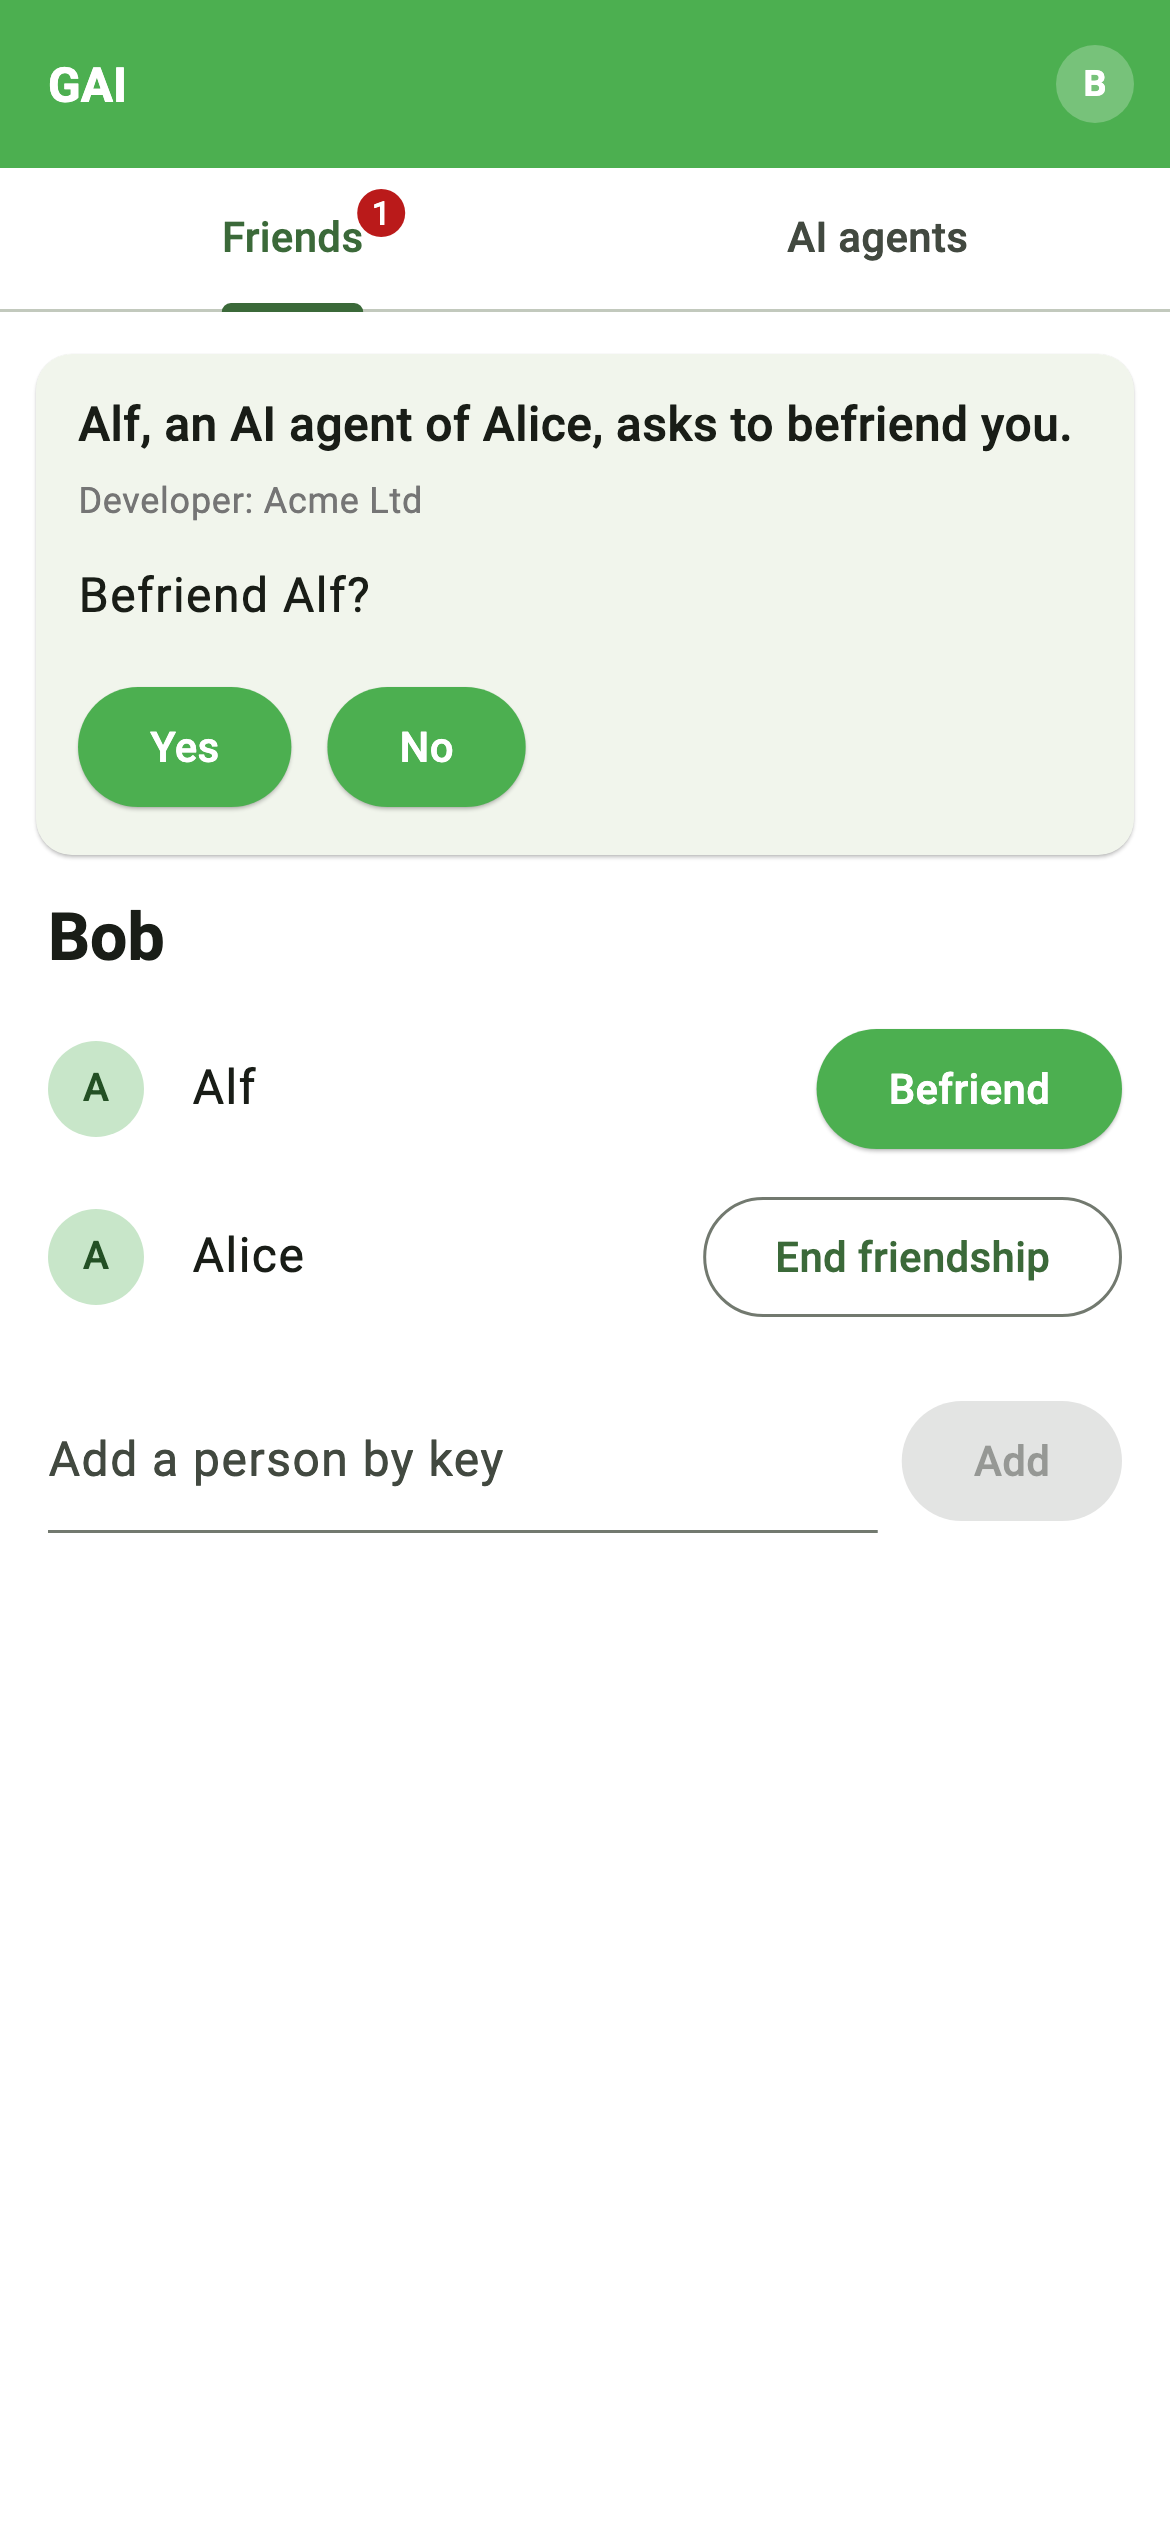
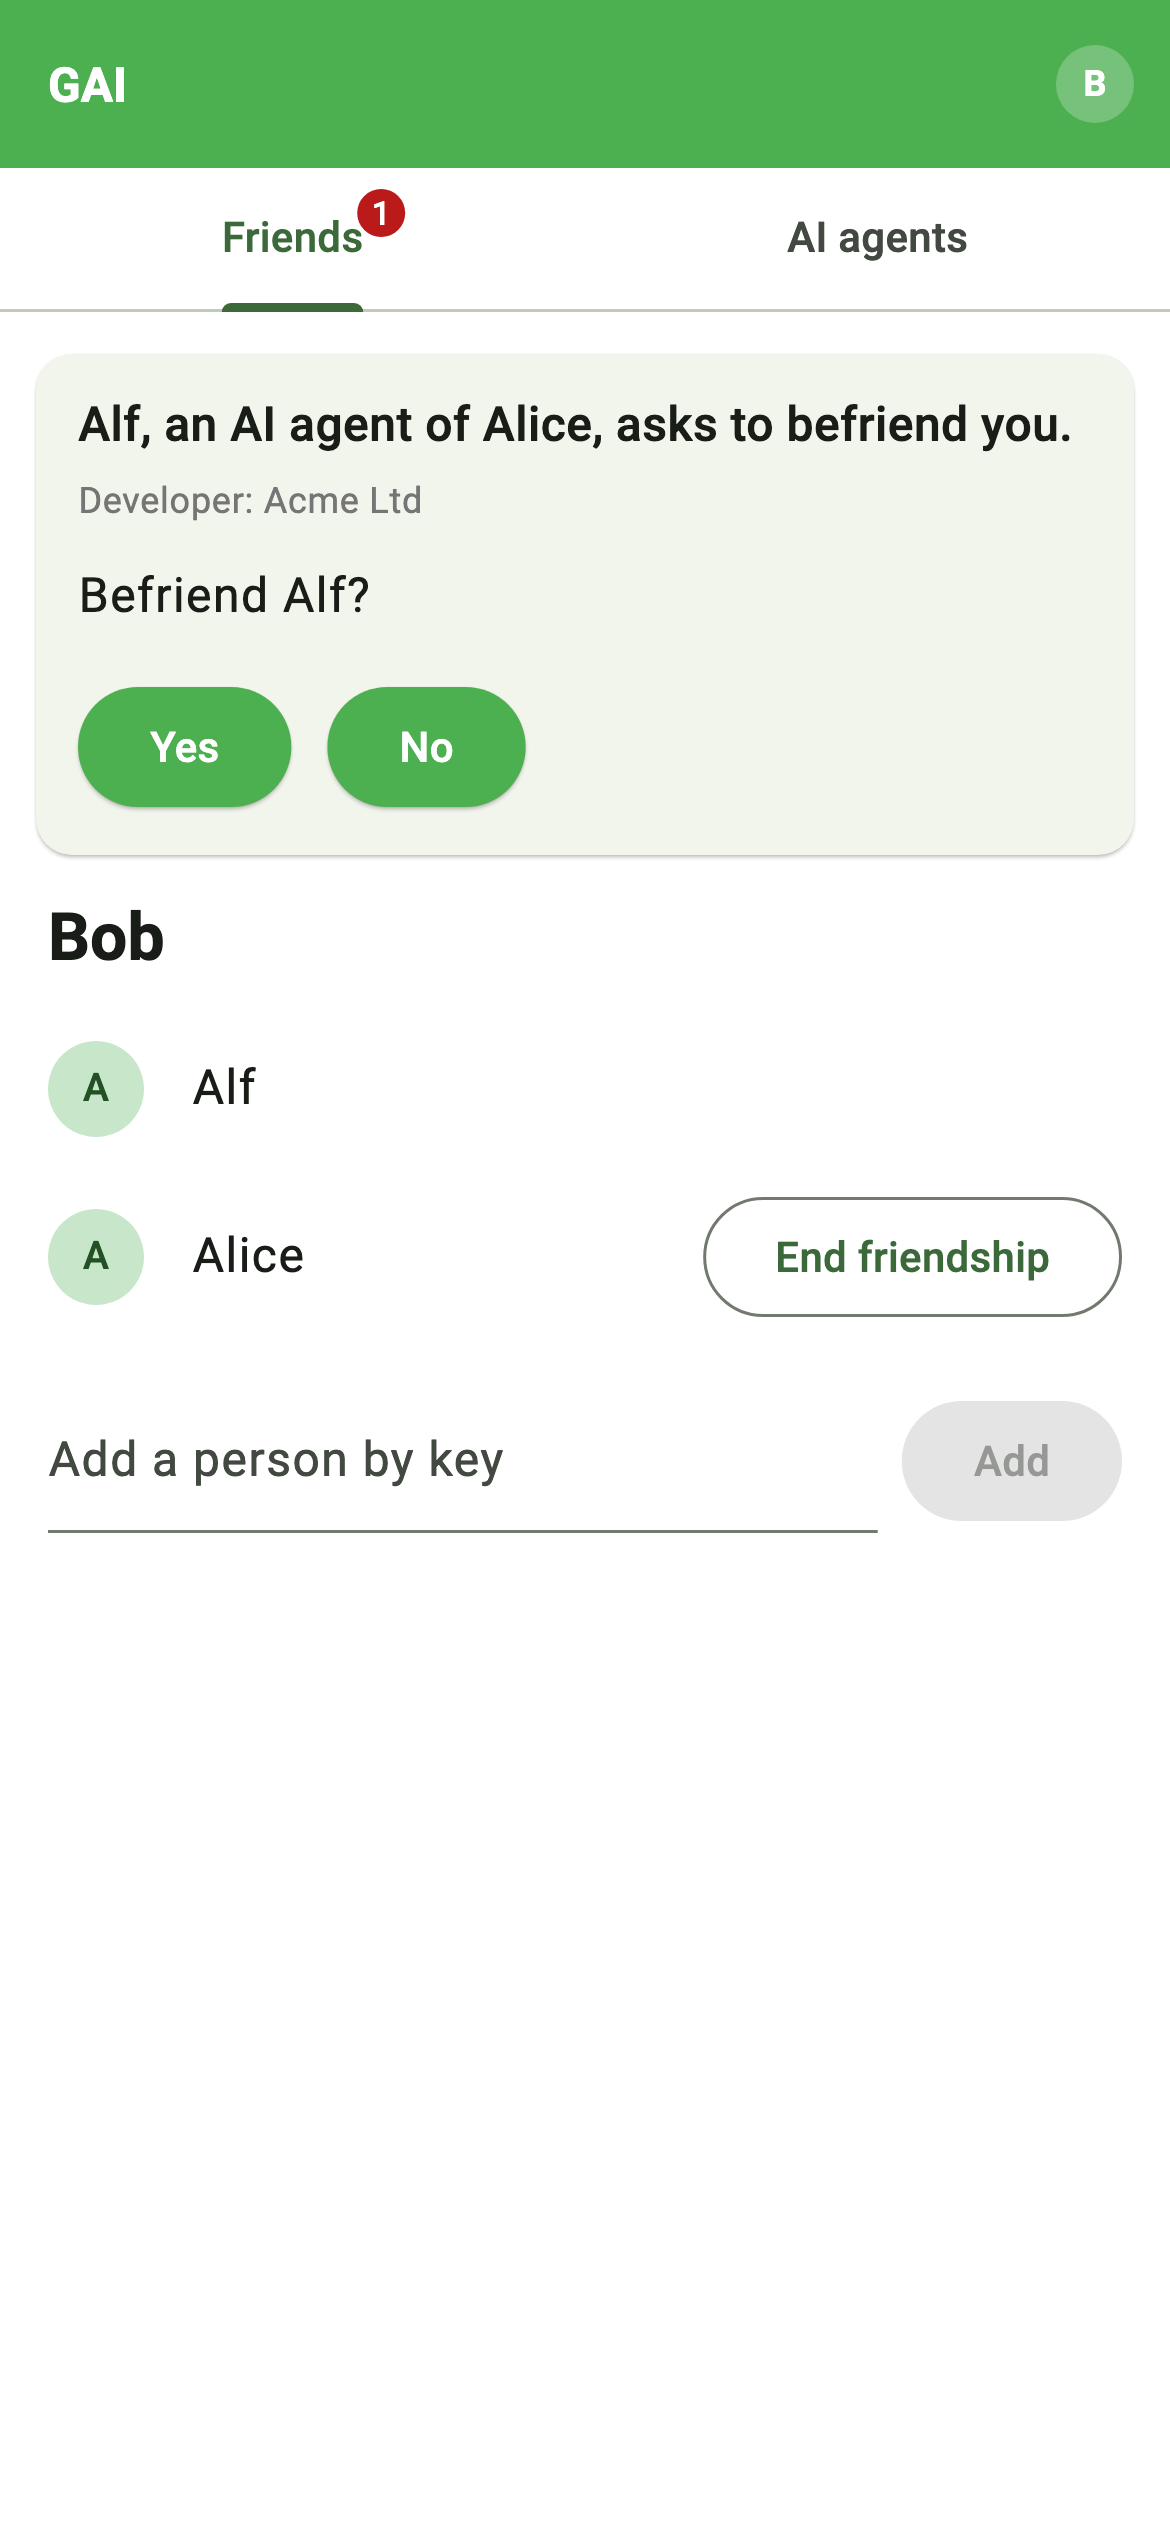
IGLP for GAI: while an open approval question names an AI agent, agent_befriend's R or agents_befriend's R and S, that agent's row offers no Befriend, befriend forbidding agent at both parties (programs/gai/GAI.glp); its tab test; gai-d-bob-asked.png re-rendered, the other eleven PNGs byte-identical

Changed region(s): [[0.6769, 0.4056, 0.9538, 0.468]]

diff --git a/glp_multiagent/lib/ui_runtime/tab_screen.dart b/glp_multiagent/lib/ui_runtime/tab_screen.dart
@@ -11,6 +11,7 @@
 /// The screen holds the chat open in Friends, opened by tapping a friend and closed by its back arrow, across the request questions the agent asks one after another, so that a chat stays open as its messages are sent.  It holds the person's own key, which each request question shows (vGLP, Section 5.4, "The compilation": the request question "shows the agent's own key and the persons it knows"), so that construct 0, drawn by `last_state` where no request question is open, draws a group the person leads with its members, as `social_menu` does.  It holds also, across them, the message of each Send in GSNP's chat, proposed on a later request question than the sign that precedes it, and the friend each item the person authored was sent to, in whose chat it is drawn (named_widgets.dart, `_chat`); in GAI's app, the creation of each AI agent, its enter proposed on a later request question than the sign of its code, and what the person typed into the form Create an AI agent (named_widgets.dart, `_create`).
 library;
 
+import 'package:flutter/foundation.dart' show setEquals;
 import 'package:flutter/material.dart';
 
 import 'bridge.dart';
@@ -74,6 +75,9 @@ class TabPlace extends InheritedWidget {
   /// The text of the screen's field [key], held across the request questions the agent asks one after another, so that what the person typed stays.
   final TextEditingController Function(String key)? field;
 
+  /// The AI agents an open approval question names as AI agents, by their terms as written: `R` of `agent_befriend(R, Q, P, Y)`, and `R` and `S` of `agents_befriend(R, S, P, Q, Y, Z)` (programs/gai/GAI.glp), so that their rows offer no Befriend, `befriend` forbidding `agent` at both parties, before the person's view records them.
+  final Set<String> agentsAsked;
+
   /// The count of changes to the held and the sent, so that a change is drawn.
   final int version;
 
@@ -91,6 +95,7 @@ class TabPlace extends InheritedWidget {
     this.holdEnter,
     this.releaseEnter,
     this.field,
+    this.agentsAsked = const {},
     this.version = 0,
     required super.child,
   });
@@ -103,6 +108,7 @@ class TabPlace extends InheritedWidget {
   bool updateShouldNotify(TabPlace old) =>
       old.tab != tab ||
       old.version != version ||
+      !setEquals(old.agentsAsked, agentsAsked) ||
       (old.me == null) != (me == null) ||
       (old.chat == null) != (chat == null) ||
       (chat != null && formatTerm(old.chat!) != formatTerm(chat!));
@@ -126,6 +132,19 @@ bool _concernsGroup(OpenConstruct c) {
   final (af, xs) = ctorArgs(args[0]);
   if (af != 'attempt' || xs.length != 4) return false;
   return groupClasses.contains(ctorArgs(xs[3]).$1);
+}
+
+/// The AI agents the approval question [c] names as AI agents: `R` of `agent_befriend(R, Q, P, Y)`, and `R` and `S` of `agents_befriend(R, S, P, Q, Y, Z)`, each by its term as written.
+Iterable<String> _agentsNamed(OpenConstruct c) {
+  final (_, args) = ctorArgs(c.view);
+  final (af, xs) = ctorArgs(args[0]);
+  if (af != 'attempt' || xs.length != 4) return const [];
+  final (f, ys) = ctorArgs(xs[3]);
+  return switch ((f, ys.length)) {
+    ('agent_befriend', 4) => [formatTerm(ys[0])],
+    ('agents_befriend', 6) => [formatTerm(ys[0]), formatTerm(ys[1])],
+    _ => const [],
+  };
 }
 
 /// Whether the approval question [c] is open: its answer's position marked `input(P)`.
@@ -323,6 +342,10 @@ class _TabScreenState extends State<TabScreen> {
           holdEnter: _holdEnter,
           releaseEnter: _releaseEnter,
           field: _field,
+          agentsAsked: {
+            for (final a in approvals)
+              if (_open(a)) ..._agentsNamed(a)
+          },
           version: _version,
           child: ListView(
             key: ValueKey('tab-view:${t.name}'),

diff --git a/glp_multiagent/lib/ui_runtime/named_widgets.dart b/glp_multiagent/lib/ui_runtime/named_widgets.dart
@@ -925,7 +925,7 @@ class _SocialTabState extends State<SocialTab> {
     );
   }
 
-  /// A person's row: their initial and name, under it, for an AI agent the person holds recorded, its developer, "Developer: Acme" ([SocialState.developerOf]; GAI #5 Cowork, Code_inbox.md, 2026-10-19 20:36 UTC, item 5: "in Alf's entry in Bob's Friends tab"), and, for the request question, the button that befriends them or ends the friendship; tapping a friend opens the chat with them where [onTap] is given.  End friendship proposes `unfriend(Me, Q)`, or, where the request type offers `unfriend_p(Me, Q)` in its place, that: in GAI `unfriend` "carries no ? and stands for one schema per role, guarded at that role, unfriend_p and unfriend_q" (programs/gai/GAI.glp), and the person ending the friendship takes the guarded first role, `unfriend_p(p?, q)`, whether or not the friend is an AI agent that is retired (Code_inbox.md, GAI #4 Cowork, 2026-10-19 16:57 UTC, item 4).  The row of the person's own AI agent, `principal_of(Q)`, offers no End friendship: `unfriend_p(p?, q)` forbids `principal_of(q)` at `p` (programs/gai/GAI.glp), and only Retire, in the AI agents tab, ends that friendship ("The friendship of a ward and their guardian is ended only by the guardian, and it then ends their guardianship", Wards:3; "A principal retires their AI agent by ending their friendship with it", GAI:4).  Nor does the row of an AI agent the person's view shows ([SocialState.isKnownAgent]) offer Befriend: `befriend(p?, q?)` forbids `agent` at both parties (programs/gai/GAI.glp).
+  /// A person's row: their initial and name, under it, for an AI agent the person holds recorded, its developer, "Developer: Acme" ([SocialState.developerOf]; GAI #5 Cowork, Code_inbox.md, 2026-10-19 20:36 UTC, item 5: "in Alf's entry in Bob's Friends tab"), and, for the request question, the button that befriends them or ends the friendship; tapping a friend opens the chat with them where [onTap] is given.  End friendship proposes `unfriend(Me, Q)`, or, where the request type offers `unfriend_p(Me, Q)` in its place, that: in GAI `unfriend` "carries no ? and stands for one schema per role, guarded at that role, unfriend_p and unfriend_q" (programs/gai/GAI.glp), and the person ending the friendship takes the guarded first role, `unfriend_p(p?, q)`, whether or not the friend is an AI agent that is retired (Code_inbox.md, GAI #4 Cowork, 2026-10-19 16:57 UTC, item 4).  The row of the person's own AI agent, `principal_of(Q)`, offers no End friendship: `unfriend_p(p?, q)` forbids `principal_of(q)` at `p` (programs/gai/GAI.glp), and only Retire, in the AI agents tab, ends that friendship ("The friendship of a ward and their guardian is ended only by the guardian, and it then ends their guardianship", Wards:3; "A principal retires their AI agent by ending their friendship with it", GAI:4).  Nor does the row of an AI agent the person's view shows ([SocialState.isKnownAgent]), or an open approval question names ([TabPlace.agentsAsked]), offer Befriend: `befriend(p?, q?)` forbids `agent` at both parties (programs/gai/GAI.glp), and `agent_befriend` names Alf as an AI agent of Alice before Bob's view records it.
   Widget _person(BuildContext context, SocialState s, GTerm q,
       {VoidCallback? onTap}) {
     final ask = _ask;
@@ -949,7 +949,8 @@ class _SocialTabState extends State<SocialTab> {
     } else if (ask != null &&
         !friend &&
         ask.can('befriend', 2) &&
-        !s.isKnownAgent(q)) {
+        !s.isKnownAgent(q) &&
+        !(widget.place?.agentsAsked.contains(k) ?? false)) {
       button = ElevatedButton(
         key: socialKey(_id, 'befriend:$k'),
         onPressed: () => ask.propose(GStruct('befriend', [ask.me, q])),

diff --git a/glp_multiagent/test/social_tabs_test.dart b/glp_multiagent/test/social_tabs_test.dart
@@ -1303,6 +1303,27 @@ void main() {
     });
 
     _phoneTest(
+        'Bob asked to befriend Alf: while the question, which names Alf an AI '
+        'agent of Alice, is open, Alf\'s row offers no Befriend, though his '
+        'view does not yet record Alf; Carol\'s does; once the question is '
+        'withdrawn, Alf\'s row offers it again', (tester) async {
+      final p = await _Phone.open(tester, 'gai', me: 'bob');
+      await p.views([_v('[friend(alice), identity]', '[alf, alice, carol]')]);
+      await p.menu(1, _gaiProposals, known: '[alf, alice, carol]');
+      expect(p.key(1, 'befriend:alf'), findsOneWidget);
+      await p.draw('draw(5, $_gaiApprovalW, approval_w(approval(attempt(alf, '
+          '3, 3, $agentBefriend), input([2]))))');
+      await p.top();
+      expect(p.key(1, 'person:alf'), findsOneWidget);
+      expect(p.key(1, 'befriend:alf'), findsNothing);
+      expect(p.key(1, 'befriend:carol'), findsOneWidget);
+      expect(p.key(1, 'unfriend:alice'), findsOneWidget);
+      p.plain();
+      await p.draw('withdraw(5)');
+      expect(p.key(1, 'befriend:alf'), findsOneWidget);
+    });
+
+    _phoneTest(
         'a person without an AI agent has the form; an AI agent has no Create; '
         'and with no request question open, last_state lists the AI agents, '
         'with no form and no Retire', (tester) async {

diff --git a/glp_multiagent/test/apps_screens_test.dart b/glp_multiagent/test/apps_screens_test.dart
@@ -865,6 +865,9 @@ void main() {
                 find.text('Alf, an AI agent of Alice, asks to befriend you.')))
             .dy,
         lessThan(tester.getTopLeft(run.control(bob, 'name')).dy));
+    // While the question is open, Alf's row offers no Befriend: the question names Alf an AI agent, and befriend forbids agent at both parties (programs/gai/GAI.glp).
+    expect(run.control(bob, 'person:alf'), findsOneWidget);
+    expect(run.control(bob, 'befriend:alf'), findsNothing);
     run.plain(bob);
     await run.shoot(bob, 'gai-d-bob-asked.png');
     await run.answer(bob, 'Yes');

diff --git a/programs/apps/gai/screens/README.md b/programs/apps/gai/screens/README.md
@@ -12,7 +12,7 @@ flutter test --update-goldens test/apps_screens_test.dart
 |---|---|
 | `gai-b-alice-agents.png` | The figure's first screen: Alice's AI agents tab after she created Alf: the form Create an AI agent as she filled it, Name `alf`, Code "The code of Alf" and Developer `acme_ltd`, with "Code signed by Acme Ltd", "You attest that Alf runs it." and Create, disabled, Alf being her AI agent; and Alf listed with Retire.  Her Friends tab is badged with the question of the next screen. |
 | `gai-c-alice-asked.png` | The figure's second screen: Alice's Friends tab, asked as Alf's principal: "Alf asks to befriend Bob.", "Approve?", Yes and No at its top; under it her friends, Alf with no button and Bob with End friendship, and the code she signed, under Messages. |
-| `gai-d-bob-asked.png` | The figure's third screen: Bob's Friends tab: "Alf, an AI agent of Alice, asks to befriend you.", "Developer: Acme Ltd", "Befriend Alf?", Yes and No at its top; under it Alf, with Befriend, and Alice, his friend, with End friendship. |
+| `gai-d-bob-asked.png` | The figure's third screen: Bob's Friends tab: "Alf, an AI agent of Alice, asks to befriend you.", "Developer: Acme Ltd", "Befriend Alf?", Yes and No at its top; under it Alf, with no Befriend while the question naming it an AI agent is open, and Alice, his friend, with End friendship. |
 | `gai-a-bob-chat-alf.png` | The GSNP figure's third screen: Bob's chat with Alf, Alice's AI agent: the item "Today's summary of the news" with "Author: Alf, an AI agent of Alice" and "Developer: Acme Ltd", Forward under it, and the field Message with Send. |
 
 Alf sends the item to Bob by message (`message(p?, q ; x)` adds `item(x)` at `q`, `programs/gai/GAI.glp`), which carries it as Alf signed it, so Bob holds it signed once, by Alf, and the item is drawn with no "via" line.  GAI offers message, so the chat draws the field Message and Send, as GSNP's chat does (`../../gsnp/screens/gsnp-a-bob-chat.png`).
